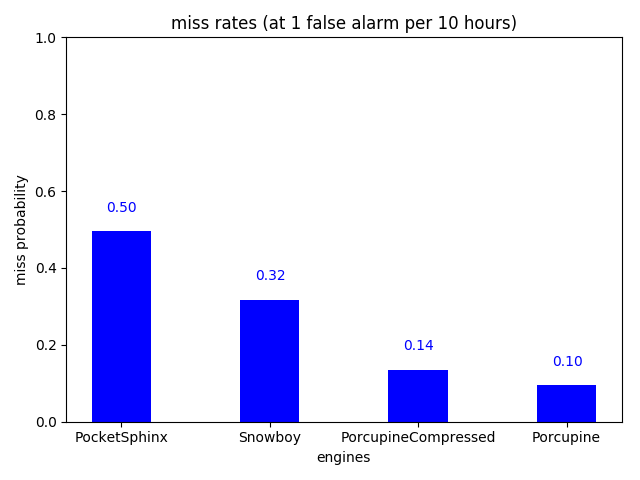
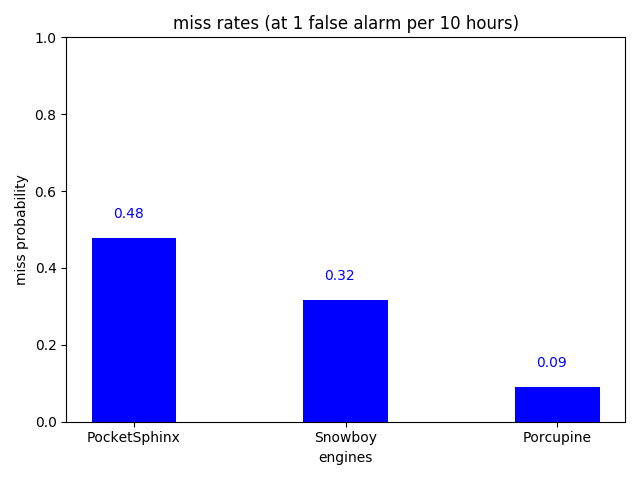
updated based on porcupine v1.7 (#10)
* updated the benchmark

* updated porcupine submodule

diff --git a/plot.py b/plot.py
@@ -10,7 +10,6 @@ KEYWORDS = {'alexa', 'computer', 'jarvis', 'smart mirror', 'snowboy', 'view glas
 ENGINE_COLORS = {
     Engines.POCKET_SPHINX.value: 'b',
     Engines.PORCUPINE.value: 'm',
-    Engines.PORCUPINE_COMPRESSED.value: 'r',
     Engines.SNOWBOY.value: 'g'
 }
 
@@ -24,75 +23,7 @@ KEYWORD_COLORS = {
 }
 
 
-def plot_roc(keyword):
-    engines_roc = dict()
-
-    for engine in Engines:
-        engine = engine.value
-
-        engines_roc[engine] = list()
-        with open(os.path.join(os.path.dirname(__file__), '%s_%s.csv' % (keyword, engine)), 'r') as f:
-            miss_rates = list()
-            false_alarms_per_hour = list()
-            for line in f.readlines():
-                miss_rate, false_alarm = [float(x) for x in line.strip('\n').split(', ')]
-                miss_rates.append(miss_rate)
-                false_alarms_per_hour.append(false_alarm)
-            engines_roc[engine].append((miss_rates, false_alarms_per_hour))
-
-    for engine in Engines:
-        engine = engine.value
-
-        plt.plot(
-            engines_roc[engine][0][1],
-            engines_roc[engine][0][0],
-            color=ENGINE_COLORS[engine],
-            label=engine,
-            marker='o')
-
-    plt.legend()
-    plt.xlim(0, 1)
-    plt.xlabel('false alarm per hour')
-    plt.ylim(0, 1)
-    plt.ylabel('miss probability')
-    plt.grid(linestyle='--')
-    plt.title(keyword)
-    plt.show()
-
-
-def plot_engine_roc(engine):
-    keywords_roc = dict()
-
-    for keyword in KEYWORDS:
-        keywords_roc[keyword] = list()
-        with open(os.path.join(os.path.dirname(__file__), '%s_%s.csv' % (keyword, engine)), 'r') as f:
-            miss_rates = list()
-            false_alarms_per_hour = list()
-            for line in f.readlines():
-                miss_rate, false_alarm = [float(x) for x in line.strip('\n').split(', ')]
-                miss_rates.append(miss_rate)
-                false_alarms_per_hour.append(false_alarm)
-            keywords_roc[keyword].append((miss_rates, false_alarms_per_hour))
-
-    for keyword in KEYWORDS:
-        plt.plot(
-            keywords_roc[keyword][0][1],
-            keywords_roc[keyword][0][0],
-            color=KEYWORD_COLORS[keyword],
-            label=keyword,
-            marker='o')
-
-    plt.legend()
-    plt.xlim(0, 1)
-    plt.xlabel('false alarm per hour')
-    plt.ylim(0, 1)
-    plt.ylabel('miss probability')
-    plt.grid(linestyle='--')
-    plt.title(engine)
-    plt.show()
-
-
-def plot_bar_chart(target_false_alarm_per_hour=0.1):
+def plot_accuracy_chart(target_false_alarm_per_hour=0.1):
     engine_miss_rates = dict([(x.value, 0) for x in Engines])
 
     for keyword in KEYWORDS:
@@ -104,8 +35,11 @@ def plot_bar_chart(target_false_alarm_per_hour=0.1):
                 false_alarms_per_hour = list()
                 for line in f.readlines():
                     miss_rate, false_alarm = [float(x) for x in line.strip('\n').split(', ')]
-                    miss_rates.append(miss_rate)
-                    false_alarms_per_hour.append(false_alarm)
+                    if len(false_alarms_per_hour) > 0 and false_alarms_per_hour[-1] == false_alarm:
+                        miss_rates[-1] = miss_rate
+                    else:
+                        miss_rates.append(miss_rate)
+                        false_alarms_per_hour.append(false_alarm)
                 engine_miss_rates[engine] +=\
                     np.interp(target_false_alarm_per_hour, false_alarms_per_hour, miss_rates) / len(KEYWORDS)
 
@@ -139,8 +73,7 @@ def plot_cpu_chart():
     engine_cpu_usage = [
         (Engines.POCKET_SPHINX.value, 31.75),
         (Engines.SNOWBOY.value, 24.82),
-        (Engines.PORCUPINE.value, 5.67),
-        (Engines.PORCUPINE_COMPRESSED.value, 2.43)
+        (Engines.PORCUPINE.value, 6.60)
     ]
 
     engines = [x[0] for x in engine_cpu_usage]
@@ -165,12 +98,6 @@ def plot_cpu_chart():
 
 
 if __name__ == '__main__':
-    for k in KEYWORDS:
-        plot_roc(k)
-
-    for e in Engines:
-        plot_engine_roc(e.value)
-
-    plot_bar_chart()
+    plot_accuracy_chart()
 
     plot_cpu_chart()

diff --git a/engine.py b/engine.py
@@ -29,7 +29,6 @@ from engines import snowboydetect
 class Engines(Enum):
     POCKET_SPHINX = 'PocketSphinx'
     PORCUPINE = 'Porcupine'
-    PORCUPINE_COMPRESSED = "PorcupineCompressed"
     SNOWBOY = 'Snowboy'
 
 
@@ -56,8 +55,6 @@ class Engine(object):
             return SensitivityInfo(-21, 15, 3)
         elif engine_type is Engines.PORCUPINE:
             return SensitivityInfo(0, 1, 0.1)
-        elif engine_type is Engines.PORCUPINE_COMPRESSED:
-            return SensitivityInfo(0, 1, 0.1)
         elif engine_type is Engines.SNOWBOY:
             return SensitivityInfo(0, 1, 0.05)
         else:
@@ -69,8 +66,6 @@ class Engine(object):
             return PocketSphinxEngine(keyword, sensitivity)
         elif engine is Engines.PORCUPINE:
             return PorcupineEngine(keyword, sensitivity)
-        elif engine is Engines.PORCUPINE_COMPRESSED:
-            return PorcupineCompressedEngine(keyword, sensitivity)
         elif engine is Engines.SNOWBOY:
             return SnowboyEngine(keyword, sensitivity)
         else:
@@ -108,12 +103,12 @@ class PocketSphinxEngine(Engine):
         return 'PocketSphinx'
 
 
-class PorcupineEngineBase(Engine):
-    def __init__(self, model_file_path, keyword_file_path, sensitivity):
+class PorcupineEngine(Engine):
+    def __init__(self, keyword, sensitivity):
         self._porcupine = Porcupine(
             library_path=os.path.join(self._repo_path, 'lib/linux/x86_64/libpv_porcupine.so'),
-            model_file_path=model_file_path,
-            keyword_file_path=keyword_file_path,
+            model_file_path=os.path.join(self._repo_path, 'lib/common/porcupine_params.pv'),
+            keyword_file_path=os.path.join(self._repo_path, 'resources/keyword_files/linux/%s_linux.ppn' % keyword.lower()),
             sensitivity=sensitivity)
 
     def process(self, pcm):
@@ -125,33 +120,11 @@ class PorcupineEngineBase(Engine):
         self._porcupine.delete()
 
     def __str__(self):
-        raise NotImplementedError()
+        return 'Porcupine'
 
     @property
     def _repo_path(self):
         return os.path.join(os.path.dirname(__file__), 'engines/porcupine')
-
-
-class PorcupineEngine(PorcupineEngineBase):
-    def __init__(self, keyword, sensitivity):
-        super().__init__(
-            os.path.join(self._repo_path, 'lib/common/porcupine_params.pv'),
-            os.path.join(self._repo_path, 'resources/keyword_files/linux/%s_linux.ppn' % keyword.lower()),
-            sensitivity)
-
-    def __str__(self):
-        return 'Porcupine'
-
-
-class PorcupineCompressedEngine(PorcupineEngineBase):
-    def __init__(self, keyword, sensitivity):
-        super().__init__(
-            os.path.join(self._repo_path, 'lib/common/porcupine_compressed_params.pv'),
-            os.path.join(self._repo_path, 'resources/keyword_files/linux/%s_linux_compressed.ppn' % keyword.lower()),
-            sensitivity)
-
-    def __str__(self):
-        return 'Porcupine Compressed'
 
 
 class SnowboyEngine(Engine):

diff --git a/runtime/README.md b/runtime/README.md
@@ -4,10 +4,10 @@ Below the methodology for measuring the real-time factor of different wake-word 
 measure only the CPU consumed by the engine and not remaining tasks such as audio reading (from file or microphone),
 moving data between C and different language bindings, etc when possible.
 
-For Porcupine and Snowboy utility programs are created [here](/runtime/porcupine_runtime_test.c) and
-[here](/runtime/snowboy_runtime_test.cpp). These programs read a WAV file and pass it through the corresponding wake-word
-engine frame-by-frame as is the case in real time applications. They only measure the time spent in the corresponding
-processing/detection method of the engines.
+For Snowboy a utility program is created [here](/runtime/snowboy_runtime_test.cpp). For Porcupine we use the file-based
+C demo application available within the official repository. These programs read a WAV file and pass it through the
+corresponding wake-word engine frame-by-frame as is the case in real time applications. They only measure the time spent
+in the corresponding processing/detection method of the engines.
 
 For PocketSphinx the task of creating such a utility program is more involved and hence we opt for an easier method of
 measuring the processing time of its commandline interface. This is essentially an upper bound on the actual processing
@@ -43,27 +43,7 @@ engines/snowboy/resources/common.res engines/snowboy/resources/alexa/alexa-avs-s
 
 ### Porcupine
 
-First, we need to build the utility program for Porcupine. From the root of the repository execute the following in the
-command line
-
-```bash
-gcc -O3 -o runtime/porcupine_runtime_test -I engines/porcupine/include/ runtime/porcupine_runtime_test.c -lm -ldl
-```
-
-it creates a binary file called `runtime/porcupine_runtime_test`. Next we run the file on a sample audio file to measure
-the realtime factor for each variant (standard and compressed) by
-
-```bash
-./runtime/porcupine_runtime_test engines/porcupine/resources/audio_samples/multiple_keywords.wav \
-engines/porcupine/lib/common/porcupine_params.pv engines/porcupine/resources/keyword_files/raspberrypi/picovoice_raspberrypi.ppn \
-engines/porcupine/lib/raspberry-pi/cortex-a53/libpv_porcupine.so
-```
-
-```bash
-./runtime/porcupine_runtime_test engines/porcupine/resources/audio_samples/multiple_keywords.wav \
-engines/porcupine/lib/common/porcupine_compressed_params.pv engines/porcupine/resources/keyword_files/raspberrypi/picovoice_raspberrypi_compressed.ppn \
-engines/porcupine/lib/raspberry-pi/cortex-a53/libpv_porcupine.so
-```
+Refer to the documentation of the C demo application within the official repository.
 
 ### PocketSphinx
 

diff --git a/README.md b/README.md
@@ -46,7 +46,7 @@ computationally efficient (faster).
 
 ### Prerequisites
 
-The benchmark has been developed on Ubuntu 16.04 with Python 3.5. Clone the repository using
+The benchmark has been developed on Ubuntu 18.04 with Python 3.6. Clone the repository using
 
 ```bash
 git clone --recurse-submodules git@github.com:Picovoice/wakeword-benchmark.git
@@ -80,8 +80,7 @@ Refer to runtime [documentation](/runtime/README.md).
 ## Accuracy
 
 Below is the result of running the benchmark framework averaged on six different keywords. The plot below shows the miss
-rate of different engines at 1 false alarm per 10 hours. The lower the miss rate the more accurate the engine is. Detailed
-ROC curves for each keyword are available in the Appendix section below.
+rate of different engines at 1 false alarm per 10 hours. The lower the miss rate the more accurate the engine is.
 
 ![](doc/img/summary.png)
 
@@ -92,17 +91,3 @@ Below is the runtime measurements on a Raspberry Pi 3. For Snowboy the runtime h
 we measured the CPU usage for each keyword and used the average.
 
 ![](doc/img/cpu.png)
-
-## Detailed ROC Curves
-
-![](doc/img/alexa_roc.png)
-
-![](doc/img/computer_roc.png)
-
-![](doc/img/jarvis_roc.png)
-
-![](doc/img/smart_mirror_roc.png)
-
-![](doc/img/snowboy_roc.png)
-
-![](doc/img/view_glass_roc.png)
